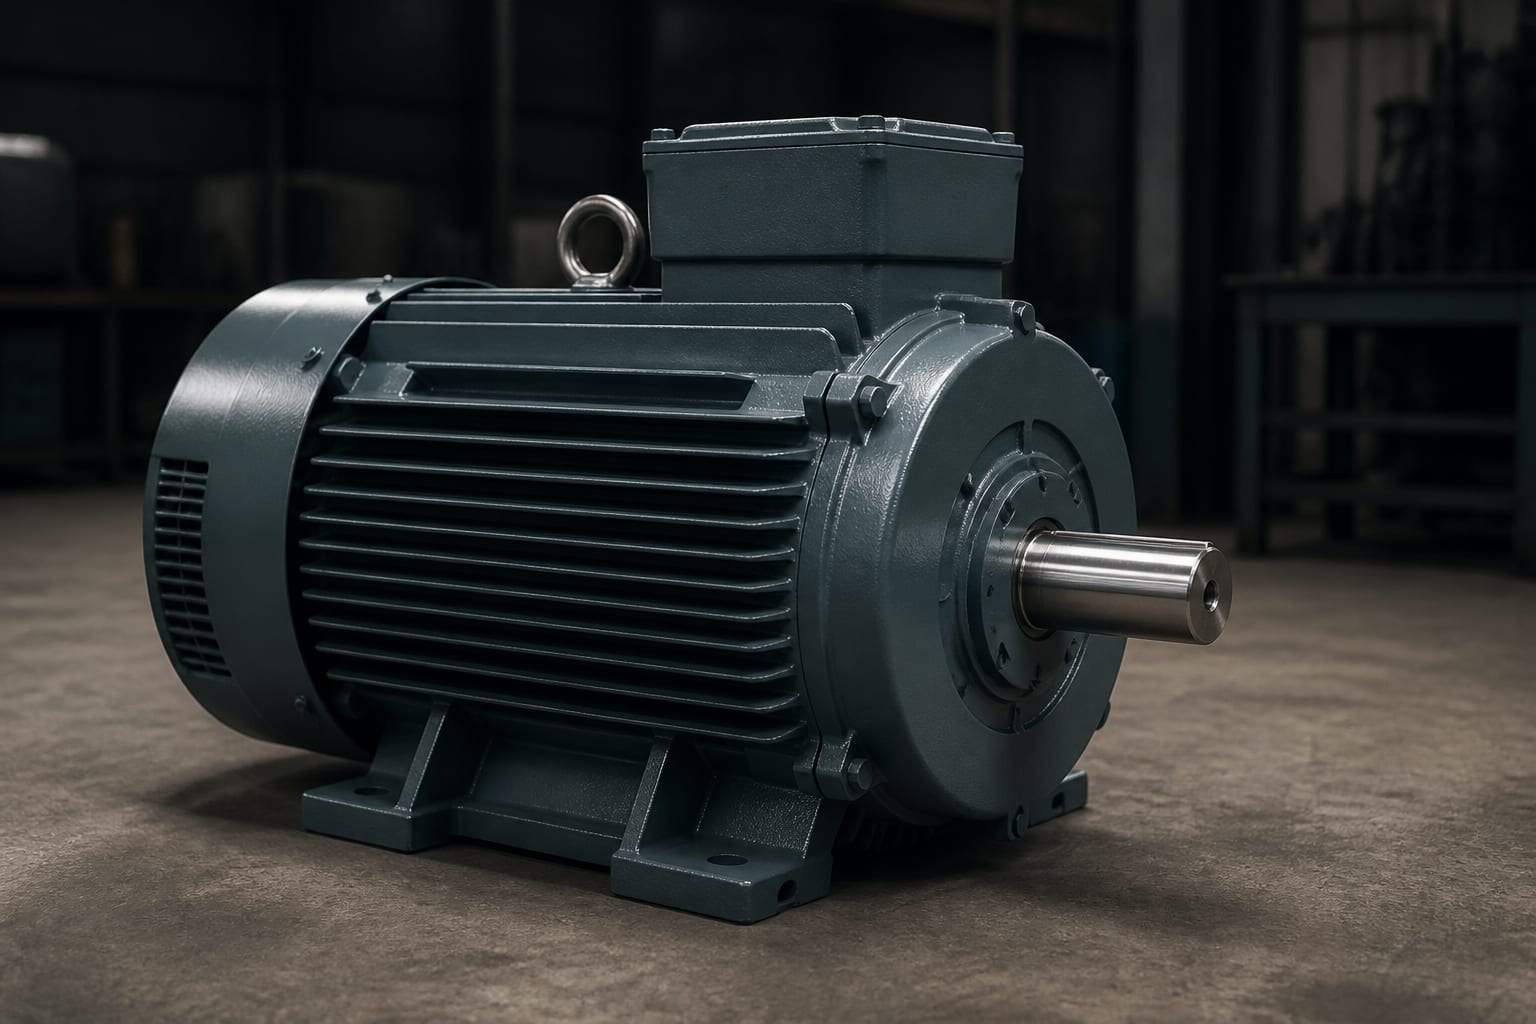
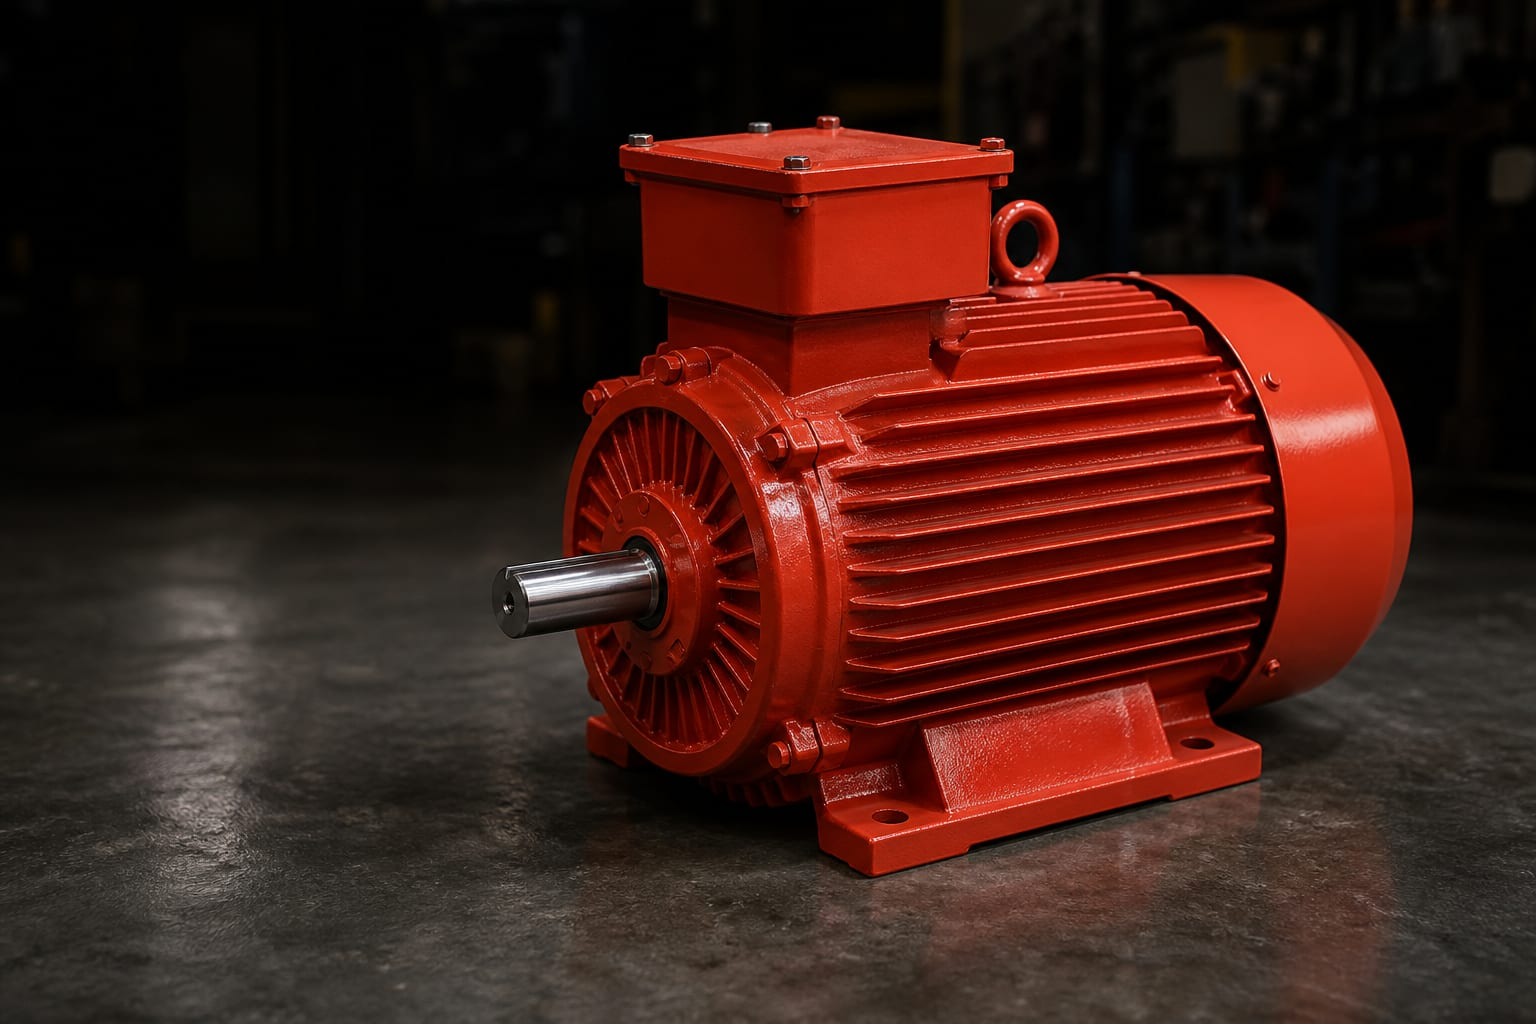
Use a red-oxide motor in the hero to match the supplied CMG photo
A red CMG product shot was supplied for the hero. It could not be used as
provided: the attachment is not readable as a file from here, and it is a
square image on plain white, which in a wide hero crops to a middle strip
and puts white heading text over a white background.

Swap the hero for a red-oxide TEFC motor in a dark workshop, framed right
of centre so the heading sits over dark space, matching the character of
the supplied motor without fabricating its brand marking. The README
records that this stands in for the real photo and what that photo needs
before it can be used.

diff --git a/README.md b/README.md
@@ -117,9 +117,14 @@ Set the environment variables above in the host's project settings before deploy
   responsible for the information it collects, so consider adding it back on `/privacy`.
 - **All equipment imagery is AI-generated**, not photographs of real equipment: the hero
   (`public/hero-electric-motor.jpg`) and the four gallery images (`public/equipment/`). They depict
-  generic plant — a TEFC induction motor, a helical gear reducer, an end-suction centrifugal pump and
-  an oil-filled distribution transformer — and deliberately carry no nameplates, since fabricated
-  brand nameplates would be worse than none. Photographs of your own workshop and equipment would be
+  generic plant — a red-oxide TEFC induction motor, a helical gear reducer, an end-suction centrifugal
+  pump and an oil-filled distribution transformer — and deliberately carry no nameplates or brand
+  marks, since fabricated branding would be worse than none.
+- **The hero stands in for a supplied CMG product photo.** A red-oxide CMG motor shot was provided but
+  could not be used directly: it is a square image on a plain white background, so in a wide hero it
+  crops to a middle strip and the white background undermines the white heading text. To use the real
+  photo, it needs the white background removed and compositing onto a dark canvas, or the hero needs
+  restructuring into a two-column layout with the product shot beside the text rather than behind it. Photographs of your own workshop and equipment would be
   considerably more convincing to a technical audience, and swapping them in means replacing the files
   in `public/` and adjusting the `alt` text in `components/EquipmentGallery.tsx` and
   `components/Hero.tsx`.
